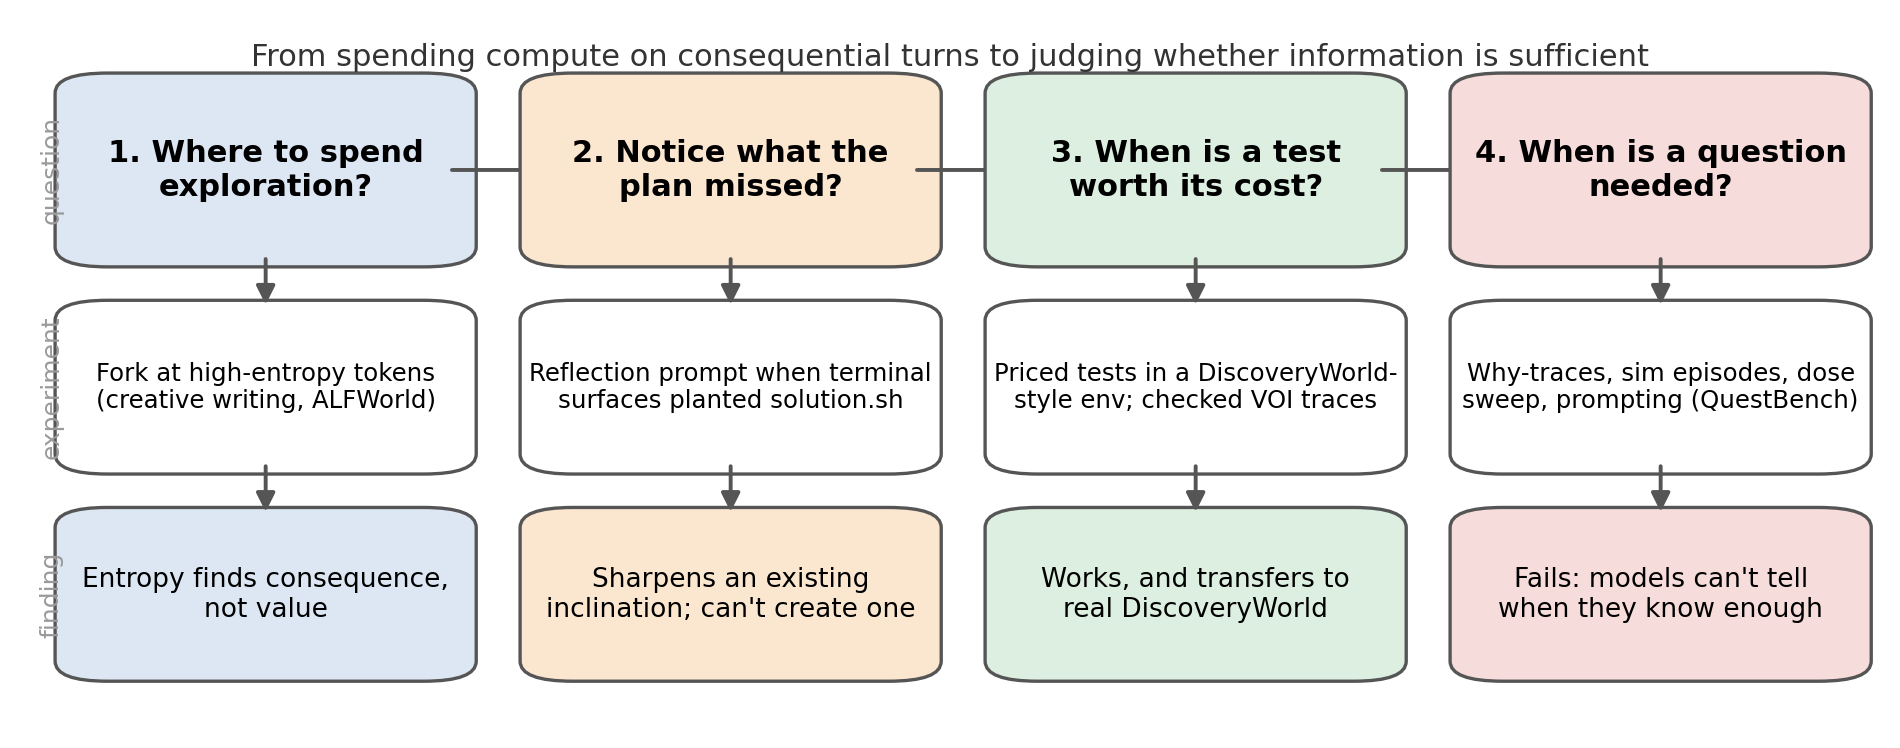
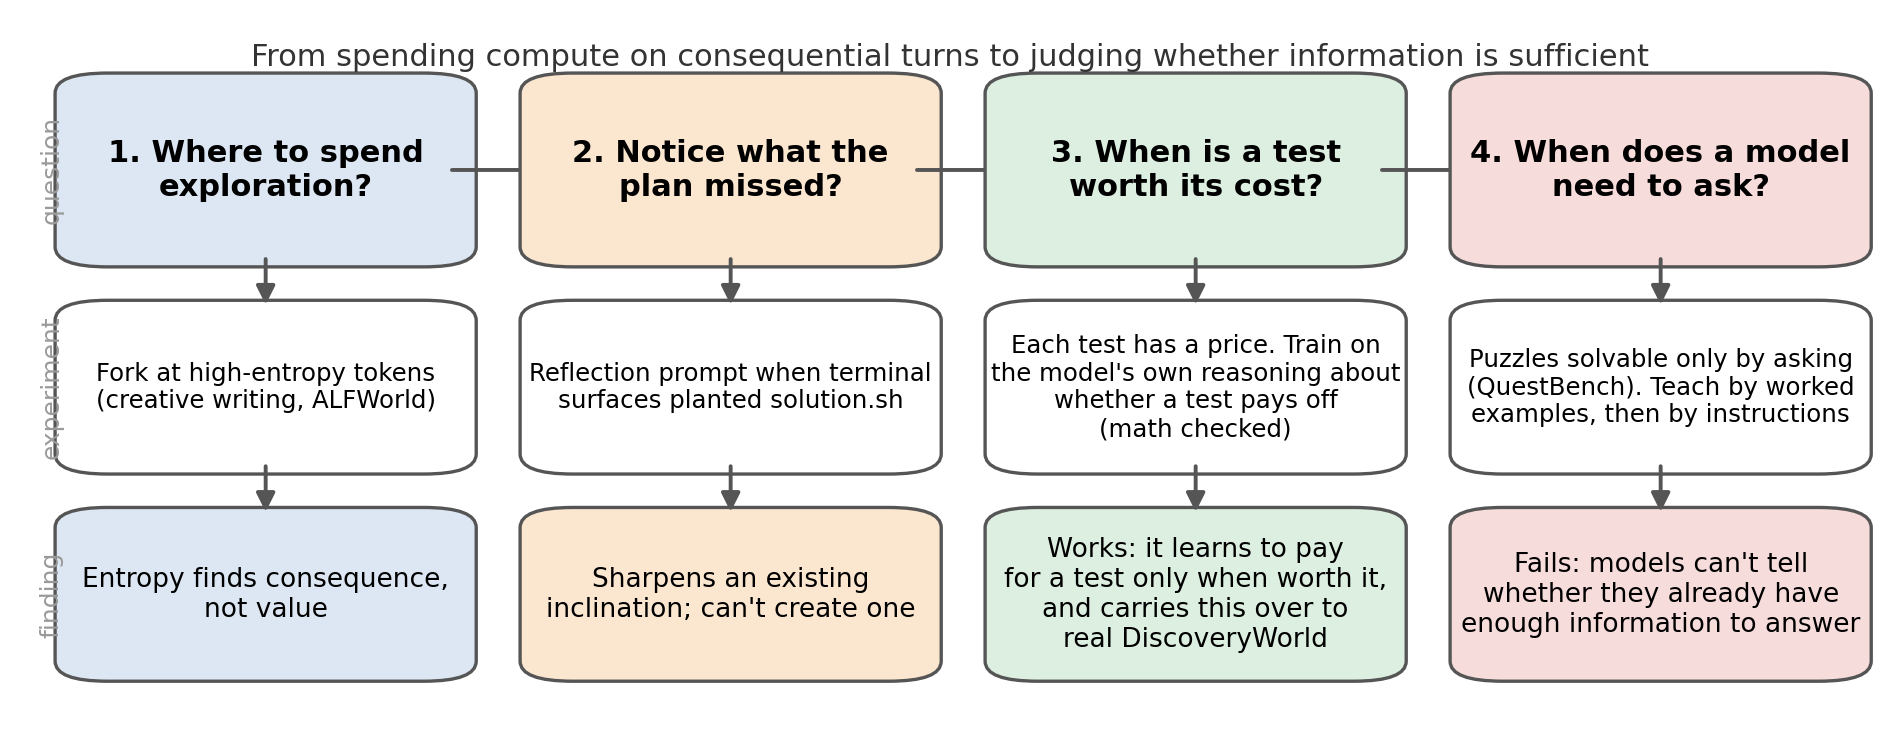
Figure 1: plain-language labels for the test-cost and question columns
Claude-Session: https://claude.ai/code/session_01TgN6MAbERCbT1H7BFap52f

diff --git a/figures/make_part2_figs.py b/figures/make_part2_figs.py
@@ -36,10 +36,10 @@ steps = [
      "Entropy finds consequence,\nnot value", LIGHT["blue"]),
     ("2. Notice what the\nplan missed?", "Reflection prompt when terminal\nsurfaces planted solution.sh",
      "Sharpens an existing\ninclination; can't create one", LIGHT["orange"]),
-    ("3. When is a test\nworth its cost?", "Priced tests in a DiscoveryWorld-\nstyle env; checked VOI traces",
-     "Works, and transfers to\nreal DiscoveryWorld", LIGHT["green"]),
-    ("4. When is a question\nneeded?", "Why-traces, sim episodes, dose\nsweep, prompting (QuestBench)",
-     "Fails: models can't tell\nwhen they know enough", LIGHT["red"]),
+    ("3. When is a test\nworth its cost?", "Each test has a price. Train on\nthe model's own reasoning about\nwhether a test pays off\n(math checked)",
+     "Works: it learns to pay\nfor a test only when worth it,\nand carries this over to\nreal DiscoveryWorld", LIGHT["green"]),
+    ("4. When does a model\nneed to ask?", "Puzzles solvable only by asking\n(QuestBench). Teach by worked\nexamples, then by instructions",
+     "Fails: models can't tell\nwhether they already have\nenough information to answer", LIGHT["red"]),
 ]
 w, gap = 0.2, 0.065
 for i, (q, how, res, c) in enumerate(steps):
